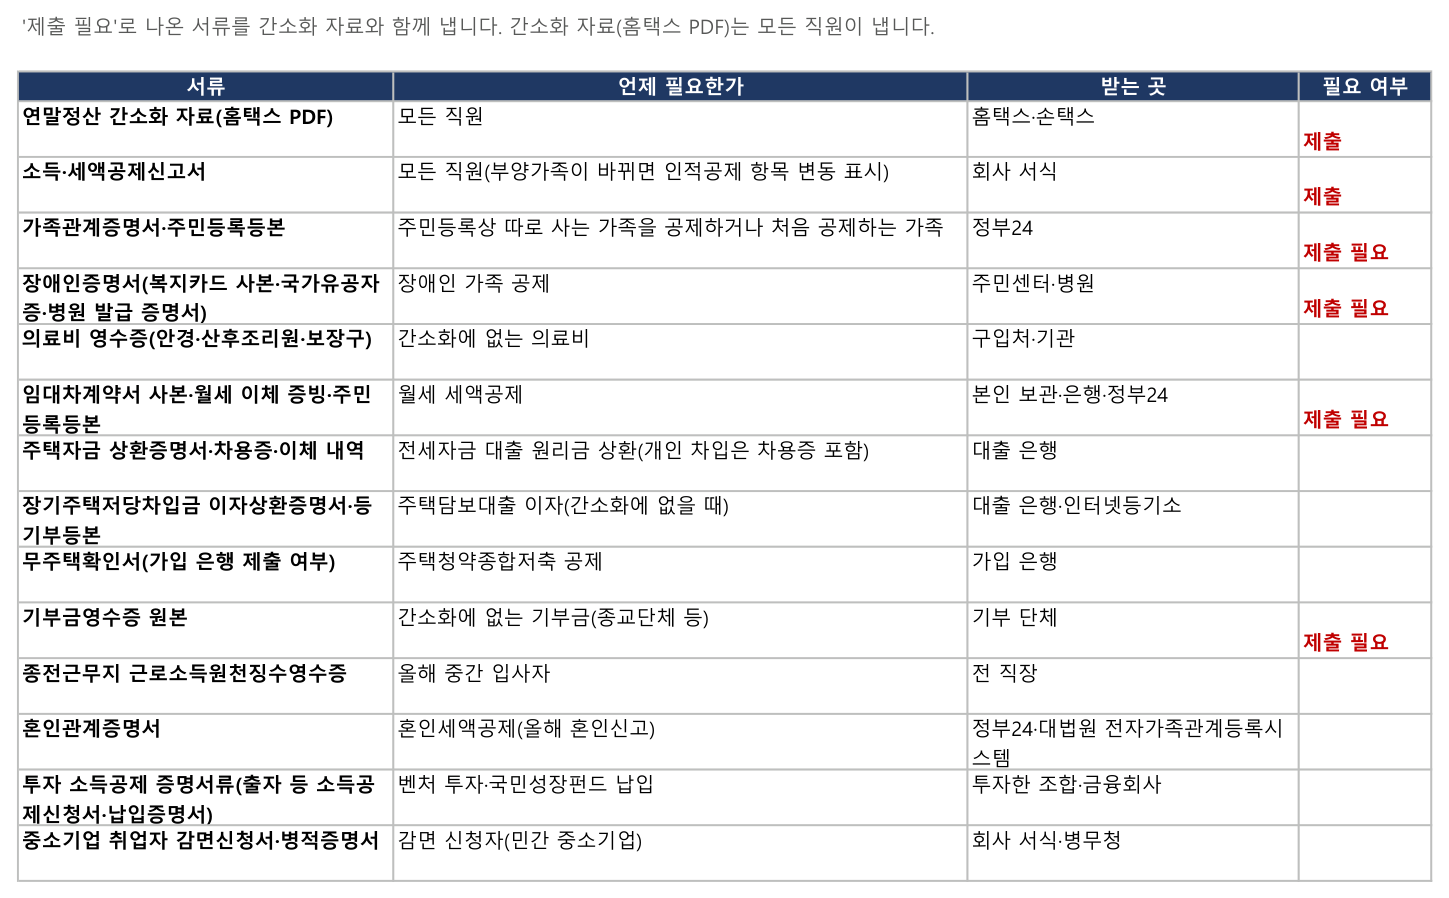
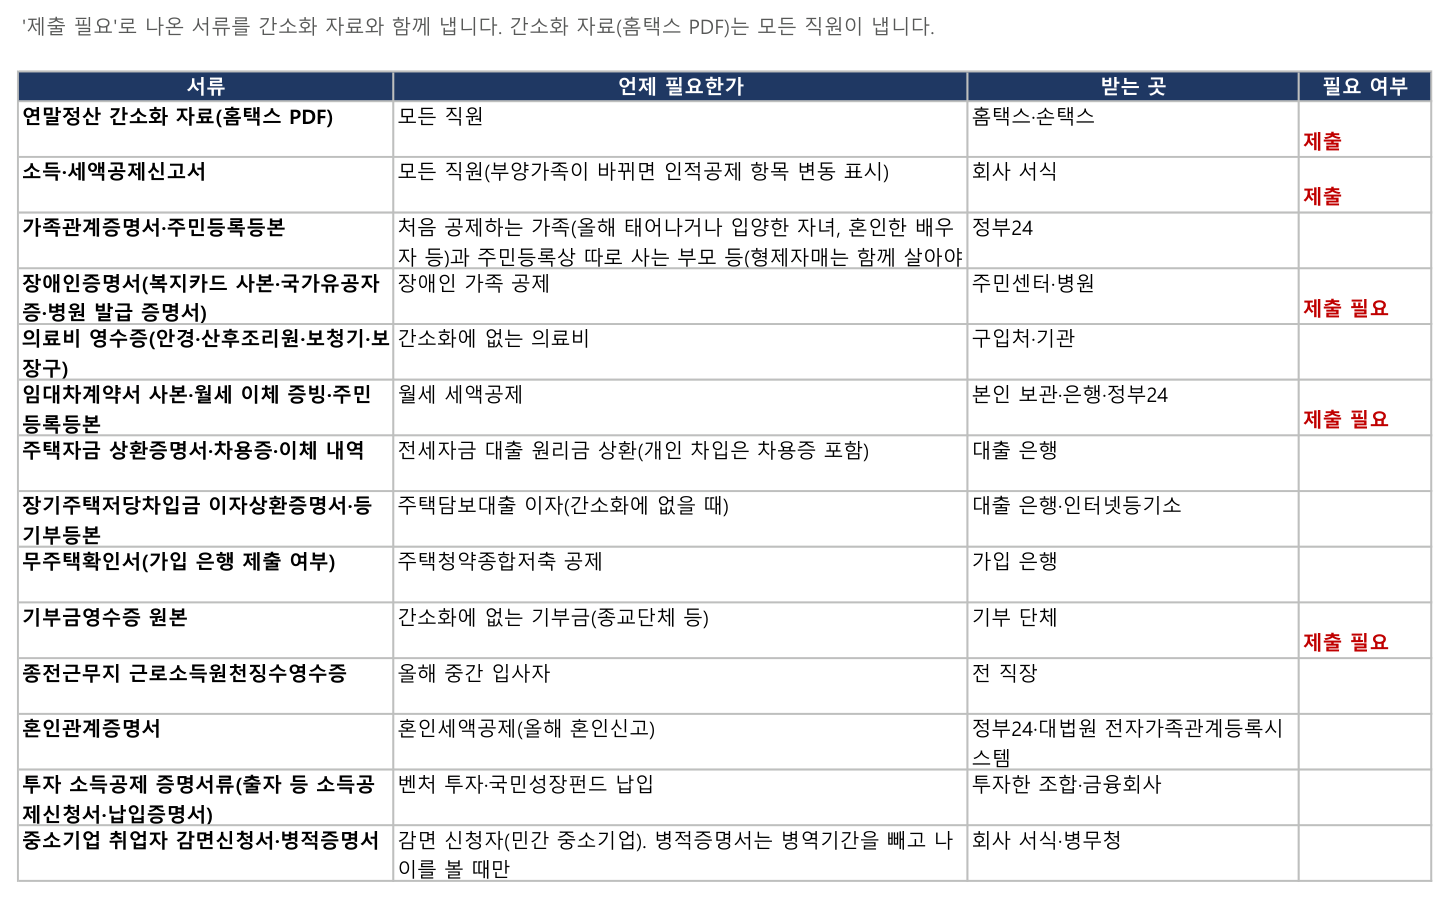
점검 보강: 자녀세액공제 관계, 근로소득과 다른 소득이 함께 있을 때, 위탁아동 나이, 기본공제 없는 추가공제, 제출서류 설명

diff --git a/index.html b/index.html
@@ -64,8 +64,8 @@ footer{max-width:56rem;margin:1rem auto 0;font-size:.85rem;color:var(--ink2)}
 
   <h2>무엇을 확인하나요</h2>
   <table>
-    <tr><th>기본공제</th><td>직계비속·입양자 20세 이하(2006.1.1 이후 출생), 직계존속 60세 이상(1966.12.31 이전 출생), 형제자매 20세 이하 또는 60세 이상, 장애인은 나이 제한 없음, 연간 소득금액 100만원 이하(근로소득만 있으면 총급여 500만원 이하)</td></tr>
-    <tr><th>추가·세액공제</th><td>경로우대 70세 이상(1956.12.31 이전 출생), 2026년 귀속 자녀세액공제 2016년 이전 출생(나이 기준 9세 이상, 2017년생은 부칙으로 제외)</td></tr>
+    <tr><th>기본공제</th><td>직계비속·입양자 20세 이하(2006.1.1 이후 출생), 직계존속 60세 이상(1966.12.31 이전 출생), 형제자매 20세 이하 또는 60세 이상, 위탁아동 18세 미만(보호기간 연장은 20세 이하), 장애인은 나이 제한 없음, 연간 소득금액 100만원 이하(근로소득만 있으면 총급여 500만원 이하, 다른 소득도 있으면 근로소득금액을 더해 100만원 이하)</td></tr>
+    <tr><th>추가·세액공제</th><td>경로우대 70세 이상(1956.12.31 이전 출생), 2026년 귀속 자녀세액공제 2016년 이전 출생(나이 기준 9세 이상, 2017년생은 부칙으로 제외)이고 자녀·손자녀·입양자·위탁아동만, 기본공제 없이 추가공제를 고른 경우</td></tr>
     <tr><th>겹치는 공제</th><td>배우자·형제자매가 같은 가족을 기본공제하는지, 기본공제받지 않는 쪽이 그 가족의 의료비·보험료·카드 사용액을 넣는지(교육비는 아래 '확인이 더 필요한 항목')</td></tr>
     <tr><th>특별공제</th><td>실손보험금 차감, 간소화에 없는 의료비·기부금 영수증, 부모 교육비, 가족 대학원 교육비, 형제자매 카드 사용액, 가족 명의 정치자금·고향사랑 기부금</td></tr>
     <tr><th>주택자금</th><td>월세 세액공제, 전세자금 대출 원리금, 주택담보대출 이자, 주택청약종합저축의 요건과 서류</td></tr>

diff --git a/README.md b/README.md
@@ -29,8 +29,8 @@
 
 | 구분 | 확인하는 것 |
 |---|---|
-| 기본공제 | 직계비속·입양자 20세 이하(2006.1.1 이후 출생), 직계존속 60세 이상(1966.12.31 이전 출생), 형제자매 20세 이하 또는 60세 이상, 장애인은 나이 제한 없음, 연간 소득금액 100만원 이하(근로소득만 있으면 총급여 500만원 이하) |
-| 추가공제·세액공제 | 경로우대 70세 이상(1956.12.31 이전 출생), 2026년 귀속 자녀세액공제 2016년 이전 출생(나이 기준 9세 이상, 2017년생은 부칙으로 제외) |
+| 기본공제 | 직계비속·입양자 20세 이하(2006.1.1 이후 출생), 직계존속 60세 이상(1966.12.31 이전 출생), 형제자매 20세 이하 또는 60세 이상, 위탁아동 18세 미만(보호기간 연장은 20세 이하), 장애인은 나이 제한 없음, 연간 소득금액 100만원 이하(근로소득만 있으면 총급여 500만원 이하, 다른 소득도 있으면 근로소득금액을 더해 100만원 이하) |
+| 추가공제·세액공제 | 경로우대 70세 이상(1956.12.31 이전 출생), 2026년 귀속 자녀세액공제 2016년 이전 출생(나이 기준 9세 이상, 2017년생은 부칙으로 제외)이고 자녀·손자녀·입양자·위탁아동만, 기본공제 없이 추가공제를 고른 경우 |
 | 가족끼리 겹치는 공제 | 배우자·형제자매가 같은 가족을 기본공제하는지, 기본공제받지 않는 쪽이 그 가족의 의료비·보험료·카드 사용액을 넣는지(교육비는 아래 '확인이 더 필요한 항목') |
 | 특별공제 | 실손보험금 차감, 간소화에 없는 의료비·기부금 영수증, 부모 교육비, 가족 대학원 교육비, 형제자매 카드 사용액, 가족 명의 정치자금·고향사랑 기부금 |
 | 주택자금 | 월세 세액공제, 전세자금 대출 원리금, 주택담보대출 이자, 주택청약종합저축의 요건과 서류 |
